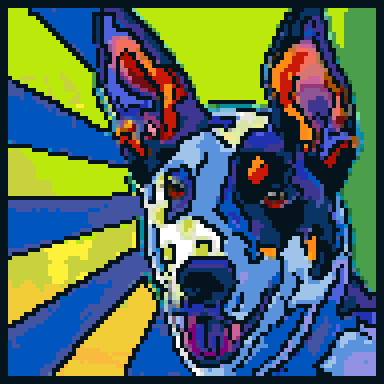
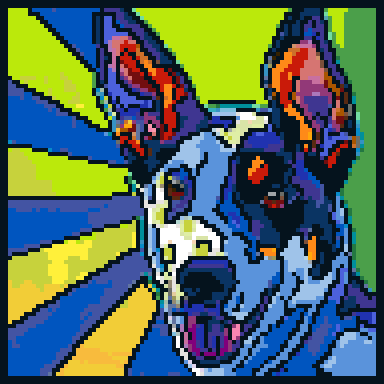
Leave rare colours out of the palette by default
New palette choice, by how easy colours are to buy: "buyable" (default:
common and uncommon colours, 61 of 81), "all", or "common" only.
On the sample pictures, dropping the 20 rare colours barely changed the
mosaic but cut its estimated price by 35-50 %; common-only visibly
degraded skin tones.

- BrickStore.palette(name), pricing.PALETTE_TIERS / DEFAULT_PALETTE.
- build_canvas(palette=...), CLI --palette, web app "Palette de couleurs".
- Canvas.fit_from_image now defaults to the buyable palette too.
- Style palettes (pop) override the choice, and are tested to hold no
  rare colour.
- docs/ renders regenerated with the new default.

diff --git a/legome/web/app.py b/legome/web/app.py
@@ -22,6 +22,7 @@ FRAMES = range(0, 5)  # Frame width in studs.
 COLOR_LIMITS = [("Toutes", "0"), ("16", "16"), ("12", "12"), ("8", "8"), ("6", "6")]
 BASEPLATE_CHOICES = [("Officielles LEGO", "official"), ("Compatibles", "compatible")]
 CURRENCY_CHOICES = [("€", "EUR"), ("$", "USD")]
+PALETTE_CHOICES = [("Sans couleurs rares", "buyable"), ("Toutes", "all"), ("Courantes seulement", "common")]
 STUD_MM = 8  # Distance between two LEGO studs.
 # Crop aspect ratios offered (width / height); "free" lets the box be any shape.
 CROP_RATIOS = [
@@ -235,6 +236,26 @@ def _layout() -> dmc.MantineProvider:
                             id="max-colors",
                             data=[{"label": label, "value": value} for label, value in COLOR_LIMITS],
                             value="0",
+                            radius="xl",
+                        ),
+                    ],
+                    gap=6,
+                    align="flex-start",
+                ),
+                dmc.Stack(
+                    [
+                        dmc.Text("Palette de couleurs", fw=600, size="sm"),
+                        dmc.Text(
+                            "Les couleurs rares (anciens gris et bruns, pastels…) sont chères et dures à trouver "
+                            "en quantité. Les écarter change peu le rendu et baisse nettement le prix. "
+                            "Le style Pop art garde sa propre palette.",
+                            c="dimmed",
+                            size="xs",
+                        ),
+                        dmc.SegmentedControl(
+                            id="palette",
+                            data=[{"label": label, "value": value} for label, value in PALETTE_CHOICES],
+                            value="buyable",
                             radius="xl",
                         ),
                     ],
@@ -544,13 +565,14 @@ def create_app() -> Dash:
         Input("crop", "data"),
         Input("baseplates", "value"),
         Input("currency", "value"),
+        Input("palette", "value"),
         State("size", "value"),
         State("frame", "value"),
         State("max-colors", "value"),
         running=[(Output("generate", "loading"), True, False)],
         prevent_initial_call=True,
     )
-    def generate_styles(_clicks, source, crop, baseplates, currency, size, frame, max_colors):
+    def generate_styles(_clicks, source, crop, baseplates, currency, palette, size, frame, max_colors):
         if not source:
             return no_update, no_update, no_update
         settings = {
@@ -560,6 +582,7 @@ def create_app() -> Dash:
             "crop": crop,
             "baseplates": baseplates,
             "currency": currency,
+            "palette": palette,
         }
         try:
             results = service.render_styles(source["session"], **settings)

diff --git a/legome/web/service.py b/legome/web/service.py
@@ -26,6 +26,7 @@ import cv2
 import numpy as np
 
 from legome.models.pdf_creator import PdfCreator, data_uri_from_rgb_array
+from legome.models.pricing import DEFAULT_PALETTE
 from legome.models.utils import read_image
 from legome.process import build_canvas
 
@@ -216,6 +217,7 @@ def render_styles(
     crop: Crop | list[float] | None = None,
     baseplates: str = "official",
     currency: str = "EUR",
+    palette: str = DEFAULT_PALETTE,
 ) -> list[dict[str, object]]:
     """Fit the session's image (cropped to ``crop``, if given) once per style in
     ``STYLE_LABELS`` and return, for each, its preview image, build figures and
@@ -223,7 +225,7 @@ def render_styles(
     path = _working_image(session_id, crop)
     results = []
     for style, label in STYLE_LABELS.items():
-        canvas = build_canvas(size, path, frame=frame, max_colors=max_colors, style=style)
+        canvas = build_canvas(size, path, frame=frame, max_colors=max_colors, style=style, palette=palette)
         rows, cols = canvas.shape
         distribution = canvas.get_distribution()
         price = canvas.get_price(baseplates, currency)
@@ -254,12 +256,13 @@ def build_pdf(
     crop: Crop | list[float] | None = None,
     baseplates: str = "official",
     currency: str = "EUR",
+    palette: str = DEFAULT_PALETTE,
 ) -> Path:
     """Write the build guide for one style as a PDF and return its path."""
     if style not in STYLE_LABELS:
         raise ImageError("Style inconnu.")
     path = _working_image(session_id, crop)
-    canvas = build_canvas(size, path, frame=frame, max_colors=max_colors, style=style)
+    canvas = build_canvas(size, path, frame=frame, max_colors=max_colors, style=style, palette=palette)
     creator = PdfCreator(canvas, baseplates=baseplates, currency=currency)
     return creator.generate_pdf(output_dir=source_path(session_id).parent / f"guide-{style}")
 

diff --git a/legome/process.py b/legome/process.py
@@ -5,6 +5,7 @@ from pathlib import Path
 from legome.models.brickstore import BrickStore
 from legome.models.canvas import Canvas
 from legome.models.pdf_creator import PdfCreator
+from legome.models.pricing import DEFAULT_PALETTE
 from legome.models.static import DIM_BASE
 from legome.models.style import STYLES
 
@@ -18,6 +19,7 @@ def build_canvas(
     max_colors: int | None = None,
     dither: bool = False,
     style: str = "natural",
+    palette: str = DEFAULT_PALETTE,
 ) -> Canvas:
     """
     Turn an image into a fitted LEGO mosaic, without writing anything.
@@ -33,16 +35,23 @@ def build_canvas(
     :param dither: Blend colours the palette lacks with Floyd-Steinberg dithering.
     :param style: Retouch preset from ``style.STYLES`` (natural, pop, comic). A
         style's own palette applies unless ``colors`` or ``full_palette`` is given.
+    :param palette: Which colours to draw from, by how easy they are to buy:
+        "buyable" (no rare colours, the default), "all" or "common" (see
+        ``pricing.PALETTE_TIERS``). Ignored when ``colors``, ``full_palette`` or
+        the style's own palette applies.
     :return: The fitted canvas.
     """
     canvas = Canvas(size, frame=frame)
     preset = STYLES[style]
     if colors is None and not full_palette and preset.colors:
         colors = list(preset.colors)
-    palette = BrickStore.all_bricks if full_palette else None
     if colors:
-        palette = BrickStore.bricks_named(colors)
-    canvas.fit_from_image(path, palette=palette, max_colors=max_colors, dither=dither, style=preset)
+        bricks = BrickStore.bricks_named(colors)
+    elif full_palette:
+        bricks = BrickStore.all_bricks
+    else:
+        bricks = BrickStore.palette(palette)
+    canvas.fit_from_image(path, palette=bricks, max_colors=max_colors, dither=dither, style=preset)
     return canvas
 
 

diff --git a/legome/models/canvas.py b/legome/models/canvas.py
@@ -9,7 +9,7 @@ import pandas as pd
 
 from legome.models.brick import Brick
 from legome.models.brickstore import BrickStore
-from legome.models.pricing import PriceEstimate, estimate_price
+from legome.models.pricing import DEFAULT_PALETTE, PriceEstimate, estimate_price
 from legome.models.static import COLORS, DIM_BASE
 from legome.models.style import Style, outline_mask, retouch
 from legome.models.utils import (
@@ -221,9 +221,10 @@ class Canvas:
         colour by CIELAB distance.
 
         :param path: Path to the image file.
-        :param palette: Bricks to match against. Defaults to the store's buildable
-            colours (``BrickStore.available_bricks``); pass ``BrickStore.all_bricks``
-            to also allow trans/chrome/speckle/pearl/metallic finishes.
+        :param palette: Bricks to match against. Defaults to the buildable colours
+            that are easy to buy (``BrickStore.palette(DEFAULT_PALETTE)``: no rare
+            ones); pass ``BrickStore.available_bricks`` for every plain colour, or
+            ``BrickStore.all_bricks`` to also allow trans/chrome/pearl/... finishes.
         :param max_colors: Limit the build to the this many colours that best fit
             the image (see ``utils.reduce_palette``). None for no limit.
         :param dither: Blend colours the palette lacks with Floyd-Steinberg
@@ -243,7 +244,7 @@ class Canvas:
         resized = self.resize_img(src)
         outlined = style is not None and style.outline
 
-        palette = palette if palette is not None else self.store.available_bricks
+        palette = palette if palette is not None else self.store.palette(DEFAULT_PALETTE)
         if max_colors is not None:
             # A frame or outline must stay black, however few colours are allowed.
             needs_black = self.frame or outlined

diff --git a/tests/test_pricing.py b/tests/test_pricing.py
@@ -82,3 +82,35 @@ def test_format():
 def test_rejects_unknown_options(kwargs, match):
     with pytest.raises(ValueError, match=match):
         pricing.estimate_price({}, 1, **kwargs)
+
+
+class TestPalettes:
+    def test_buyable_is_the_default_and_drops_only_rare_colours(self):
+        from legome.models.brickstore import BrickStore
+
+        assert pricing.DEFAULT_PALETTE == "buyable"
+        buyable, everything = BrickStore.palette("buyable"), BrickStore.palette("all")
+        assert everything == BrickStore.available_bricks
+        assert {pricing.color_tier(b.id) for b in buyable} == {"common", "uncommon"}
+        assert {b.id for b in everything} - {b.id for b in buyable} == {
+            b.id for b in everything if pricing.color_tier(b.id) == "rare"
+        }
+
+    def test_common_palette(self):
+        from legome.models.brickstore import BrickStore
+
+        assert {pricing.color_tier(b.id) for b in BrickStore.palette("common")} == {"common"}
+
+    def test_rejects_unknown_palettes(self):
+        from legome.models.brickstore import BrickStore
+
+        with pytest.raises(ValueError, match="palette"):
+            BrickStore.palette("rainbow")
+
+    def test_style_palettes_avoid_rare_colours(self):
+        # A style's own palette overrides the palette choice, so it must be buyable too.
+        from legome.models.style import STYLES
+
+        for style in STYLES.values():
+            for name in style.colors or ():
+                assert pricing.color_tier(NAMES.index(name)) != "rare", name

diff --git a/tests/test_style.py b/tests/test_style.py
@@ -95,3 +95,18 @@ def test_explicit_colours_override_the_style_palette(square_image, tmp_path):
         1, square_image, output_dir=tmp_path, plot=False, open_in_browser=False, style="pop", colors=["Tan", "Black"]
     )
     assert set(canvas.get_distribution()) <= {brick.id for brick in BrickStore.bricks_named(["Tan", "Black"])}
+
+
+def test_build_canvas_skips_rare_colours_by_default(tmp_path):
+    from legome.models.pricing import color_tier
+    from legome.process import build_canvas
+
+    # Random noise spans the whole colour cube, so every palette colour has a chance.
+    rng = np.random.default_rng(7)
+    path = tmp_path / "noise.png"
+    cv2.imwrite(str(path), rng.integers(0, 256, size=(64, 64, 3), dtype=np.uint8))
+
+    default = build_canvas(1, path)
+    everything = build_canvas(1, path, palette="all")
+    assert all(color_tier(i) != "rare" for i in default.get_distribution())
+    assert any(color_tier(i) == "rare" for i in everything.get_distribution())

diff --git a/legome/models/brickstore.py b/legome/models/brickstore.py
@@ -1,4 +1,5 @@
 from legome.models.brick import Brick
+from legome.models.pricing import PALETTE_TIERS, color_tier
 from legome.models.static import COLORS
 
 # Name prefixes/entries that aren't ordinary, buildable LEGO colors: placeholders
@@ -38,6 +39,15 @@ class BrickStore:
     available_bricks: list[Brick] = [
         brick for brick, name in zip(all_bricks, COLORS, strict=True) if _is_buildable(name)
     ]
+
+    @classmethod
+    def palette(cls, name: str) -> list[Brick]:
+        """Return the plain buildable bricks in a ``pricing.PALETTE_TIERS`` palette:
+        "buyable" (no rare colours), "all", or "common" only."""
+        if name not in PALETTE_TIERS:
+            raise ValueError(f"Unknown palette {name!r}; expected one of {list(PALETTE_TIERS)}")
+        tiers = PALETTE_TIERS[name]
+        return [brick for brick in cls.available_bricks if color_tier(brick.id) in tiers]
 
     @classmethod
     def bricks_named(cls, names: list[str]) -> list[Brick]:

diff --git a/legome/cli.py b/legome/cli.py
@@ -38,6 +38,12 @@ def main(argv: list[str] | None = None) -> int:
         help="Also match trans/chrome/speckle/pearl/metallic finishes, not just plain buildable colors.",
     )
     palette.add_argument(
+        "--palette",
+        choices=["buyable", "all", "common"],
+        default="buyable",
+        help="Colours to draw from: buyable (default: no rare, pricey colours), all, or common only.",
+    )
+    palette.add_argument(
         "--colors",
         type=lambda value: [name.strip() for name in value.split(",") if name.strip()],
         metavar="NAMES",
@@ -114,6 +120,7 @@ def main(argv: list[str] | None = None) -> int:
         max_colors=args.max_colors,
         dither=args.dither,
         style=args.style,
+        palette=args.palette,
         baseplates=args.baseplates,
         currency=args.currency,
     )

diff --git a/tests/test_cli.py b/tests/test_cli.py
@@ -86,3 +86,12 @@ def test_price_options_end_to_end(red_blue_image, tmp_path, capsys):
     out = capsys.readouterr().out
     assert "Total estimated cost:" in out and "$" in out
     assert "compatible baseplates" in out and "shipping not included" in out
+
+
+def test_palette_flag(red_blue_image, tmp_path):
+    args = [str(red_blue_image), "-s", "1", "-o", str(tmp_path), "--no-plot", "--no-open"]
+    assert main([*args, "--palette", "common"]) == 0
+    with pytest.raises(SystemExit):
+        main([*args, "--palette", "rainbow"])
+    with pytest.raises(SystemExit):  # one way of choosing colours at a time
+        main([*args, "--palette", "all", "--colors", "Black"])

diff --git a/legome/models/pricing.py b/legome/models/pricing.py
@@ -89,6 +89,16 @@ RARE_COLORS = frozenset(
 )
 # Every other colour is "uncommon".
 
+# Which colour tiers each palette choice draws from. "buyable" is the default:
+# on sample pictures, dropping rare colours left the mosaic almost unchanged
+# but cut its price by 35-50 %; "common" alone visibly degrades skin tones.
+PALETTE_TIERS = {
+    "buyable": ("common", "uncommon"),
+    "all": ("common", "uncommon", "rare"),
+    "common": ("common",),
+}
+DEFAULT_PALETTE = "buyable"
+
 _NAMES = list(COLORS)
 
 
